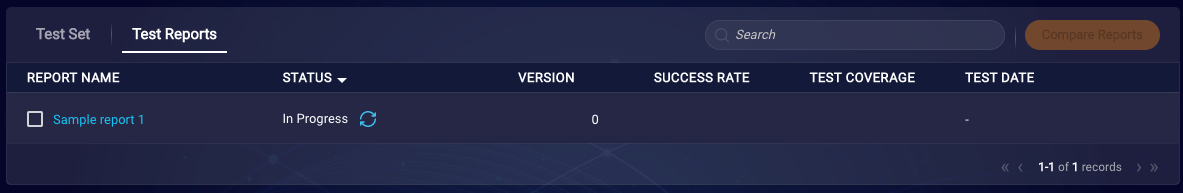
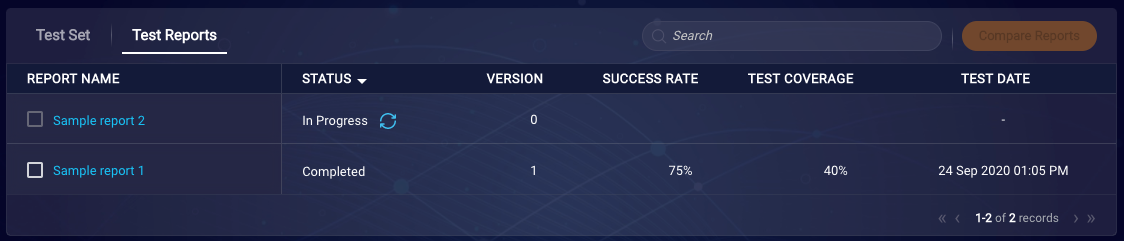
Update model tester doc

diff --git a/pages/Documents/ConversationalAI/IntentBuilder/Testing/advanced-model-testing.md b/pages/Documents/ConversationalAI/IntentBuilder/Testing/advanced-model-testing.md
@@ -21,7 +21,7 @@ The general workflow for using the Model Tester is this:
 
 1. Define a set of utterances (test phrases) to test against the intents in the domain.
 2. Run the test, and evaluate the report.
-3. Improve the domain and retrain the model, and/or improve the test set.
+3. Improve the domain, and retrain the model.
 4. Re-run the test, and evaluate the report.
 5. Compare reports to determine if the model is improving or regressing.
 
@@ -58,13 +58,13 @@ Once you’ve added a number of phrases to the test set, you need to refine the 
 {: .important}
 The test set overall can contain a maximum of 300 test phrases. Each intent can have a maximum of 25 test phrases.
 
-#### Evaluating the intent coverage
+#### Evaluating the test coverage
 
-The **Test Set** tab shows you the number of intents in the domain that are and aren’t represented in the test set. This determines the test’s Intent Coverage percentage.
+The **Test Set** tab shows you the number of intents in the domain that are and aren’t represented in the test set. This determines the test’s Test Coverage percentage.
 
 <img class="fancyimage" style="width:800px" src="img/ConvoBuilder/ib_model_tester_coverage1.png">
 
-Click the message, and then select **Unselected** to see the list of intents for which you need to take action and add test phrases. Assessing your intent coverage can help you find irrelevant intents that should be deleted.
+Click the message, and then select **Unselected** to see the list of intents for which you need to take action and add test phrases. Assessing your test coverage can also help you find irrelevant intents that should be deleted.
 
 <img class="fancyimage" style="width:300px" src="img/ConvoBuilder/ib_model_tester_coverage2.png">
 
@@ -85,10 +85,6 @@ Click the message, and then select **Unselected** to see the list of intents for
 
 ### View a report
 
-One important goal of the report is to help you quickly determine whether the actual intent matched to a test phrase by the NLU engine is the one you expected. Instances where this isn't the case are identified, so you can fine tune the intent.
-
-SCREEN
-
 {: .important}
 The system retains the 10 most recent reports.
 
@@ -99,32 +95,41 @@ The system retains the 10 most recent reports.
 3. Click the **Test Reports** tab.
 4. Click the report name.
 
-    SCREEN
+    <img class="fancyimage" style="width:800px" src="img/ConvoBuilder/ib_model_tester_viewreport.png">
 
 There are several, important metrics displayed:
 
-* **Test Phrases**: The number of phrases (utterances) in the test set.
-* **Passed**: The number of test phrases that matched the expected intents.
-* **Failed**: The number of test phrases that didn't match the expected intents.
-* **Match Rate**: The percentage of test phrases that matched the expected intents regardless of the rating (GOOD, FAIR PLUS, etc.). This is calculated by dividing the number of passed tests by the total number of tests.
-* **Success Rate**: The percentage of test phrases that matched with the expected intents with a rating of GOOD or VERY GOOD. This is calculated by dividing the number of passed tests with a rating of GOOD or VERY GOOD by the total number of tests.
-* **Intent Coverage**: The percentage of intents in the domain that are used in the test set. This is calculated by dividing the number of used intents by the total number of intents.
-* **Confidence Score**: The percentage score that reflects the NLU’s level of confidence in the match to the expected intent.
-* **Rating**: The rating that indicates the NLU’s level of confidence in the match, one of VERY GOOD, GOOD, FAIR PLUS, FAIR or POOR.
-* **Test Result**: An at-a-glance, visual indicator of whether the test phrase passed [ ] or failed [ ].
+* **Test Phrases**: The number of phrases in the test set.
+* **Passed**: The number of phrases that matched the expected intents with a match rating of Very Good or Good.
+* **Failed**: The number of test phrases that either didn't match the expected intents or matched them with a match rating of Fair Plus or Fair.
+* **Success Rate**: The percentage of phrases in the test set that passed the test.
+* **Test Coverage**: The percentage of intents in the domain that are used in the test set.
+* **Result**: A quick, visual indicator of whether the phrase passed, failed, or passed but with a false positive. Respectively, these conditions are represented with: 
+<img style="width:25px" src="img/ConvoBuilder/ib_model_tester_icon_passed.png"> <img style="width:25px" src="img/ConvoBuilder/ib_model_tester_icon_failed.png">
+<img style="width:25px" src="img/ConvoBuilder/ib_model_tester_icon_falsepos.png">
+* **Match Rating**: The rating that indicates the NLU’s level of confidence in the match, one of Very Good, Good, Fair Plus, Fair, or Poor.
+* **Match Score**: The percentage score that reflects the NLU’s level of confidence in the match to the matched intent.
 
 #### Evaluating the report
 
 If the report's scores are low, take corrective action as follows:
 
-* **Low Intent Coverage**: This indicates that many intents in the domain aren't represented in the test set.
-    * In the test set, add phrases for the overlooked intents. This might require that you broaden the use cases and provide utterances that approach the intent from different directions.
-    * In the Intents list, delete any unused and irrelevant intents. In effect, clean the domain. This can often improve performance.
-* **Low Match Rate**: This indicates that many test phrases didn't match the expected intent at all. In this case, you need to examine the test phrases to determine why the match rate is low.
-    * If there was no match at all, go to the expected intent and improve it.
-    * If there was an actual match to the wrong intent, either correct the test set, or fix/improve the affected intents. 
-* **Low Success Rate**: This indicates that many test phrases didn't match the expected intents with high confidence scores.
-    * Identify the test phrases with low confidence scores. Then focus on training the associated intents to improve the scores. This might involve adding training phrases or removing irrelevant ones. Often, removing irrelevant training phrases can be more effective than adding new training phrases.
+**Low Test Coverage**: This indicates that many intents in the domain aren't represented in the test set. To improve the test coverage:
+
+* In the test set, add phrases for the overlooked intents. This might require that you broaden the use cases and provide utterances that approach the intent from different directions.
+* In the Intents list, delete any unused and irrelevant intents. In effect, clean the domain. This can often improve performance.
+
+**Low Success Rate**: This indicates that many test phrases failed the test because they either didn't match the expected intents, or they did so with low match ratings. Here below is an example of the latter:
+
+<img class="fancyimage" style="width:800px" src="img/ConvoBuilder/ib_model_tester_lowsuccessrate.png">
+
+To improve the success rate, focus on training the associated intents to improve the scores. This might involve adding training phrases or removing irrelevant ones. Often, removing irrelevant training phrases can be more effective than adding new training phrases.
+
+**False Positives**: A false positive occurs when a test phrase matches an intent other than the expected intent. False positives are indicated with an "FP" indicator, like is shown in our example below:
+
+<img class="fancyimage" style="width:800px" src="img/ConvoBuilder/ib_model_tester_falsepositive.png">
+
+To correct false positives, here again, focus on training the associated intents.
 
 ### Compare reports
 
@@ -138,6 +143,17 @@ A true comparison of reports -- to accurately determine if the domain/model is i
 4. In the dashboard that lists the reports, select the checkboxes for both reports.
 5. Click **Compare Reports** in the upper-right corner.
 
-    SCREEN
+    <img class="fancyimage" style="width:800px" src="img/ConvoBuilder/ib_model_tester_comparereports.png">
 
     Note that a test phrase that is present in one test but not in another is marked with “ -- “ in the latter.
+
+### Best practices
+
+LivePerson recommends that you keep modifications to the test set to a minimum, as changing this more often makes comparisons more difficult. A best practice is to:
+
+1. Create a strong test set.
+2. Test the intents.
+3. Improve the intents.
+4. Compare the results.
+
+Steps 2 through 4 should be done frequently. Changes to the test set should only happen if necessary, i.e., if intents are added or removed.
